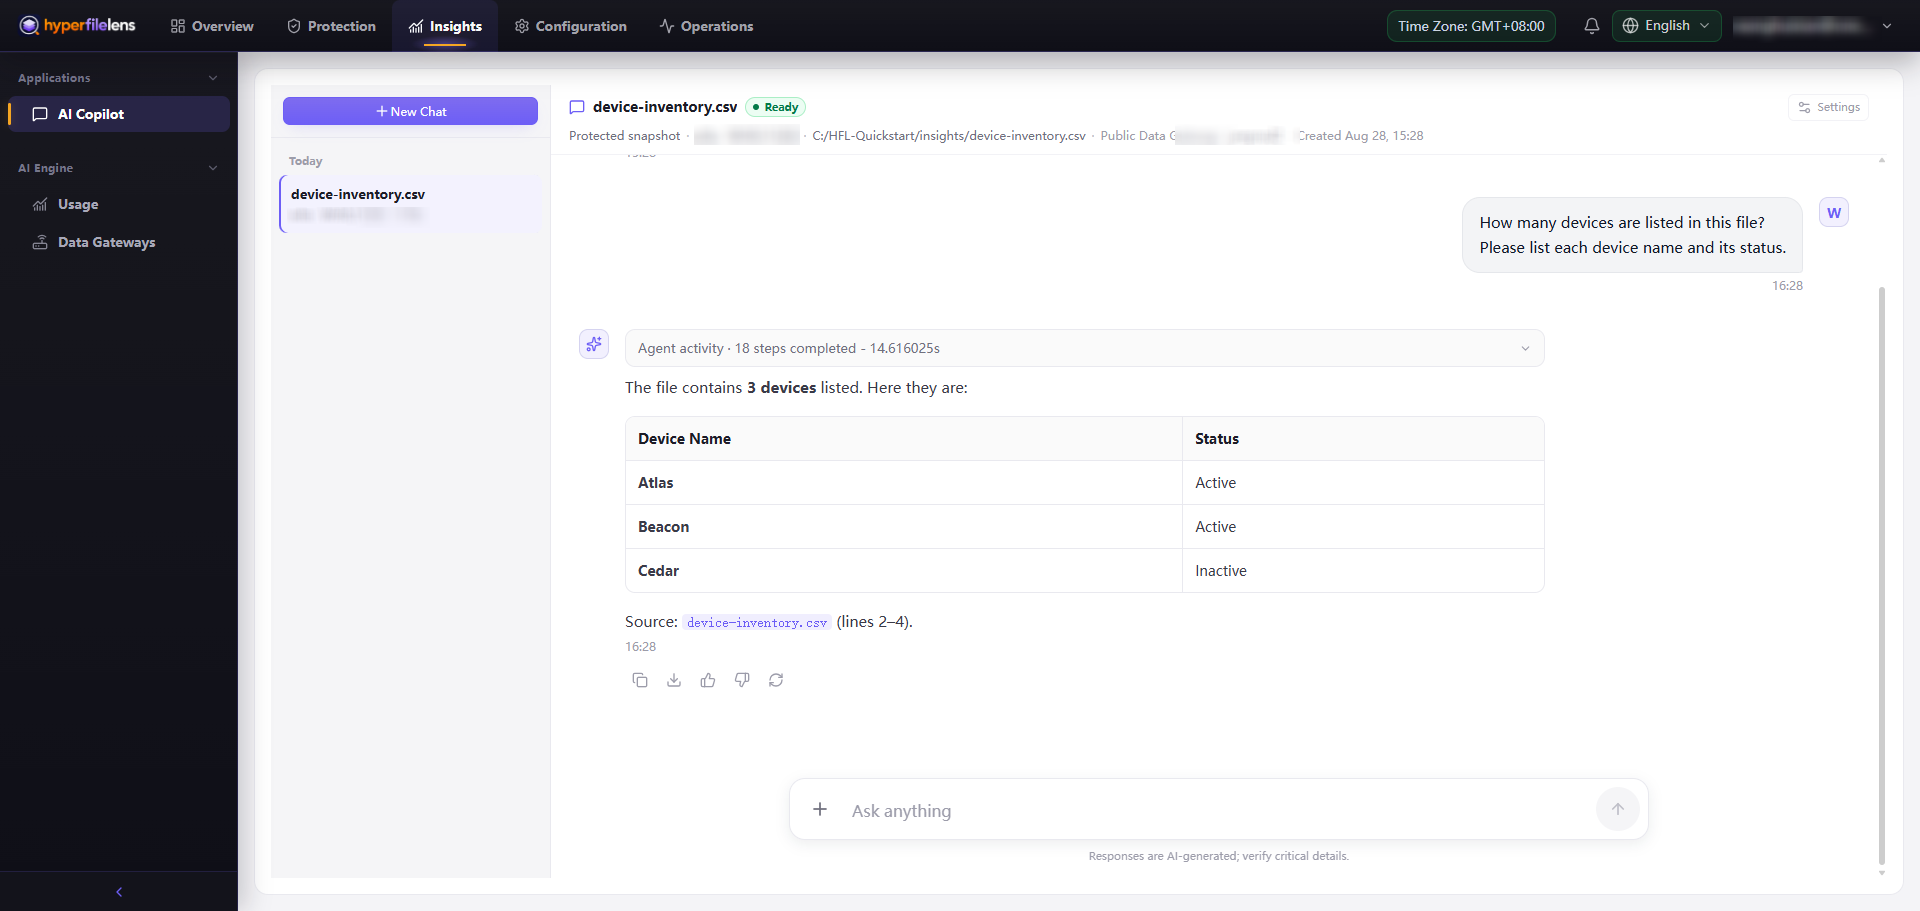
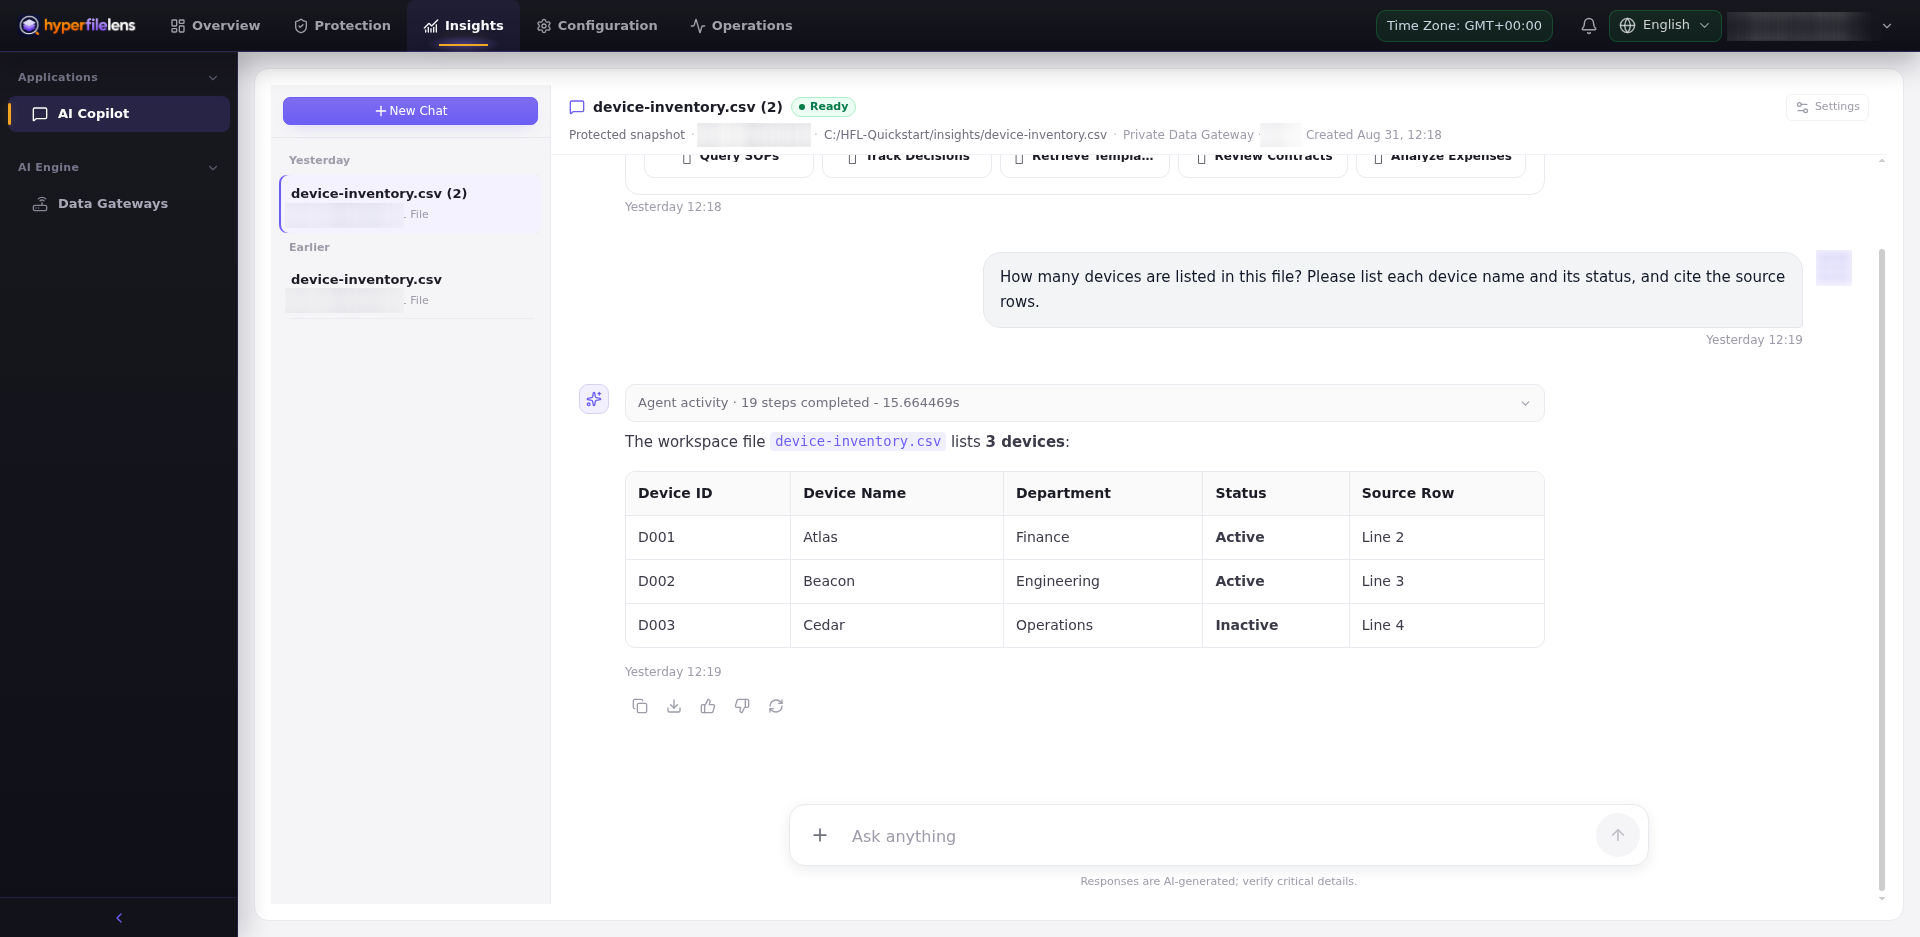
Refresh Insights sidebar screenshots
- Replace three public Insights captures with the current tenant navigation
- Align bilingual First Use entry instructions and redaction-aware alt text

diff --git a/website/zh/docs/getting-started/first-insight.md b/website/zh/docs/getting-started/first-insight.md
@@ -16,9 +16,9 @@ description: 基于首次备份快照创建洞察会话并使用 Public Data Gat
 ## 打开 New Chat
 
 1. 打开 **Insights → AI Copilot**。
-2. 在空白页面选择 **Start New Chat**，或在左侧选择 **New Chat**。
+2. 在 Chat 列表上方选择 **New Chat**。首次使用且没有历史会话时，主区域可能显示 **Start New Chat**。
 
-![AI Copilot 空白页面，账户信息已经模糊处理](/docs/getting-started/insights-empty.png)
+![当前 AI Copilot 页面在 Applications 下显示 AI Copilot、在 AI Engine 下显示 Data Gateways，真实账户、主机和 Gateway 标识已经模糊处理](/docs/getting-started/insights-empty.png)
 
 ## 选择备份数据
 

diff --git a/website/en/docs/getting-started/first-insight.md b/website/en/docs/getting-started/first-insight.md
@@ -16,9 +16,9 @@ Insights uses a protected backup snapshot, not the live Windows source. This ste
 ## Open New Chat
 
 1. Open **Insights → AI Copilot**.
-2. On the empty page, select **Start New Chat**, or select **New Chat** in the left panel.
+2. Select **New Chat** above the Chat list. A first-time account may instead show **Start New Chat** in the main panel.
 
-![Empty AI Copilot page with account information blurred](/docs/getting-started/insights-empty.png)
+![Current AI Copilot page with AI Copilot under Applications, Data Gateways under AI Engine, and real account, host, and Gateway identifiers blurred](/docs/getting-started/insights-empty.png)
 
 ## Select the backup data
 
